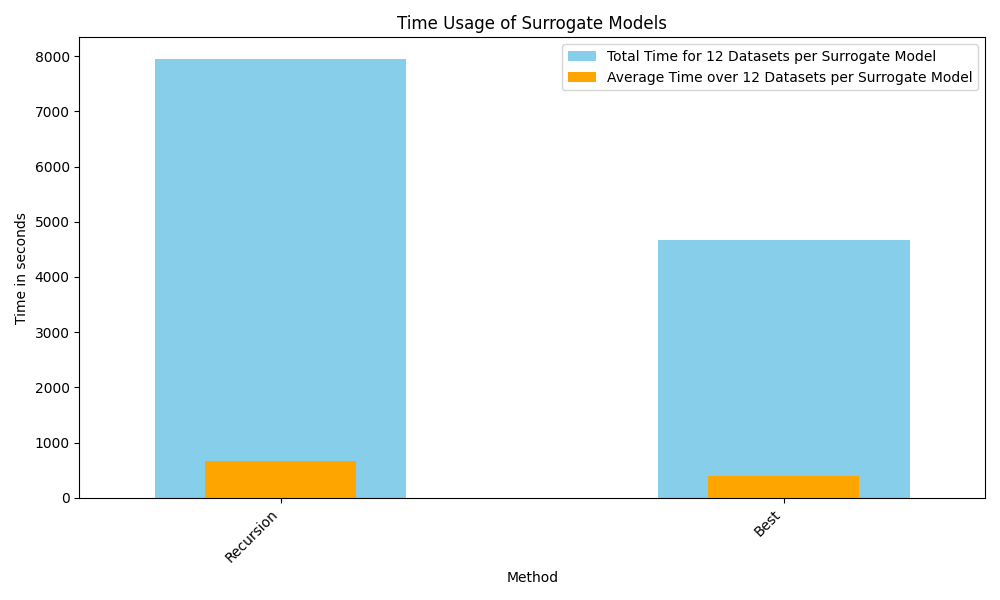
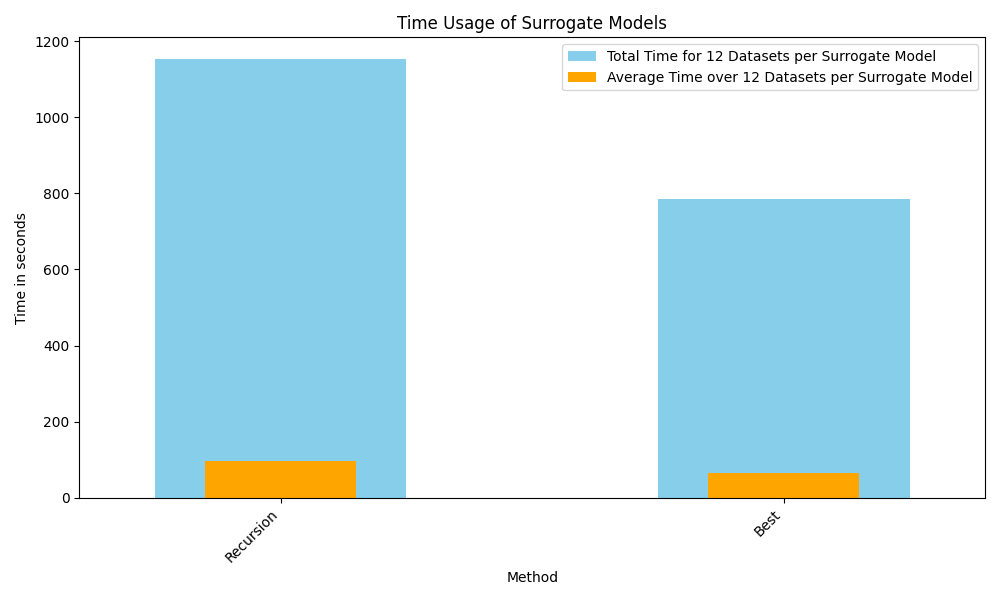
Calculate new time results with openfe

diff --git a/src/Result_Analysis/time_analysis_sm/time_analysis_sm.py b/src/Result_Analysis/time_analysis_sm/time_analysis_sm.py
@@ -1,4 +1,5 @@
 import os
+import re
 
 import openml
 import pandas as pd
@@ -14,8 +15,9 @@ def main():
 
     for log_file in log_files:
         if log_file.endswith('.out'):
-            f = open(log_file, "r")
-            lines = f.readlines()
+            with open(log_file, "r") as f:
+                lines = f.readlines()
+
             method = log_file.split("_")[0]
             if method == "Impr":
                 method = "Recursion"
@@ -24,42 +26,48 @@ def main():
             dataset = log_file.split("_")[0].split("-")[-1]
 
             comp_sentence = "Time for creating Comparison Result Matrix: "
-            pred_sentence = "Time for Predicting Improvement using CatBoost: "
             timeout_sentence = "[Monitor] Time limit exceeded"
+            meta_sentence = "Method:"
 
-            comp_times = []
-            pred_time = None
+            comp_time = None
             timeout = False
 
-            for line in lines:
+            for i, line in enumerate(lines):
                 if timeout_sentence in line:
                     timeout = True
-                elif line.startswith(comp_sentence):
-                    time = float(line.split(comp_sentence)[1])
-                    comp_times.append(time)
-                # elif line.startswith(pred_sentence):
-                    # pred_time = float(line.split(pred_sentence)[1])
+                    break  # no need to continue reading if timed out
+                if line.startswith(meta_sentence):
+                    parts = line.strip().split(",")
+                    for part in parts:
+                        if "Dataset" in part:
+                            dataset = part.split(":")[1].strip()
 
-                # Handle timeout case
-                if timeout:
-                    new_row = pd.DataFrame([{
-                        "Method": method,
-                        "Dataset": dataset,
-                        "Task": "Calculate Comparison Matrix",
-                        "Time": 3600.0
-                    }])
-                    times = pd.concat([times, new_row], ignore_index=True)
+                if line.startswith(comp_sentence):
+                    # Check if the next line exists and starts with expected string
+                    if i + 1 < len(lines) and lines[i + 1].startswith("Allocated memory"):
+                        try:
+                            comp_time = float(line.split(comp_sentence)[1].strip())
+                        except ValueError:
+                            comp_time = None  # just in case parsing fails
 
-                else:
-                    # Use last occurrence for Comparison Matrix
-                    if comp_times:
-                        new_row = pd.DataFrame([{
-                            "Method": method,
-                            "Dataset": dataset,
-                            "Task": "Calculate Comparison Matrix",
-                            "Time": comp_times[-1]
-                        }])
-                        times = pd.concat([times, new_row], ignore_index=True)
+            if timeout:
+                # Timeout case
+                new_row = pd.DataFrame([{
+                    "Method": method,
+                    "Dataset": dataset,
+                    "Task": "Calculate Comparison Matrix",
+                    "Time": 3600.0
+                }])
+                times = pd.concat([times, new_row], ignore_index=True)
+            elif comp_time is not None:
+                # Successful case with valid comp_time
+                new_row = pd.DataFrame([{
+                    "Method": method,
+                    "Dataset": dataset,
+                    "Task": "Calculate Comparison Matrix",
+                    "Time": comp_time
+                }])
+                times = pd.concat([times, new_row], ignore_index=True)
 
     time_per_method = times.groupby("Method")["Time"].sum().sort_values(ascending=False)
     average_recursion = time_per_method.values[0] / 12
@@ -78,6 +86,47 @@ def main():
     # plt.yscale('log')
     plt.tight_layout()
     plt.savefig("Time_SM_oneshot_recursive.png")
+    plt.show()
+
+    with open("openfe_times.txt", "r") as f:
+        lines = f.readlines()
+
+    method = "OpenFE"
+    # Parse each line
+    for line in lines:
+        match = re.search(r"OpenFE on dataset (\d+): ([\d.]+) seconds", line)
+        if match:
+            dataset = int(match.group(1))
+            time = float(match.group(2))
+
+            # Mimic your pattern
+            new_row = pd.DataFrame([{
+                "Method": method,
+                "Dataset": dataset,
+                "Task": "FE",
+                "Time": time
+            }])
+            times = pd.concat([times, new_row], ignore_index=True)
+
+    times = times.drop_duplicates()
+    time_per_method = times.groupby("Method")["Time"].sum().sort_values(ascending=False)
+    average_openfe = time_per_method.values[0] / 12
+    average_recursion = time_per_method.values[1] / 10
+    average_best = time_per_method.values[2] / 7
+    average_time_per_method = pd.Series([average_openfe, average_recursion, average_best], index=["OpenFE", "Recursion", "Best"])
+
+    # Plot
+    plt.figure(figsize=(10, 6))
+    time_per_method.plot(kind='bar', color='skyblue', label='Total Time for 12 Datasets per FE Method')
+    average_time_per_method.plot(kind='bar', width=0.3, color='orange', label='Average Time over 12 Datasets per FE Method')
+    plt.legend()
+    plt.xlabel("Method")
+    plt.ylabel("Time in seconds")
+    plt.title("Time Usage of FE Methods")
+    plt.xticks(rotation=45, ha="right")
+    # plt.yscale('log')
+    plt.tight_layout()
+    plt.savefig("Time_FE_methods.png")
     plt.show()
 
 
